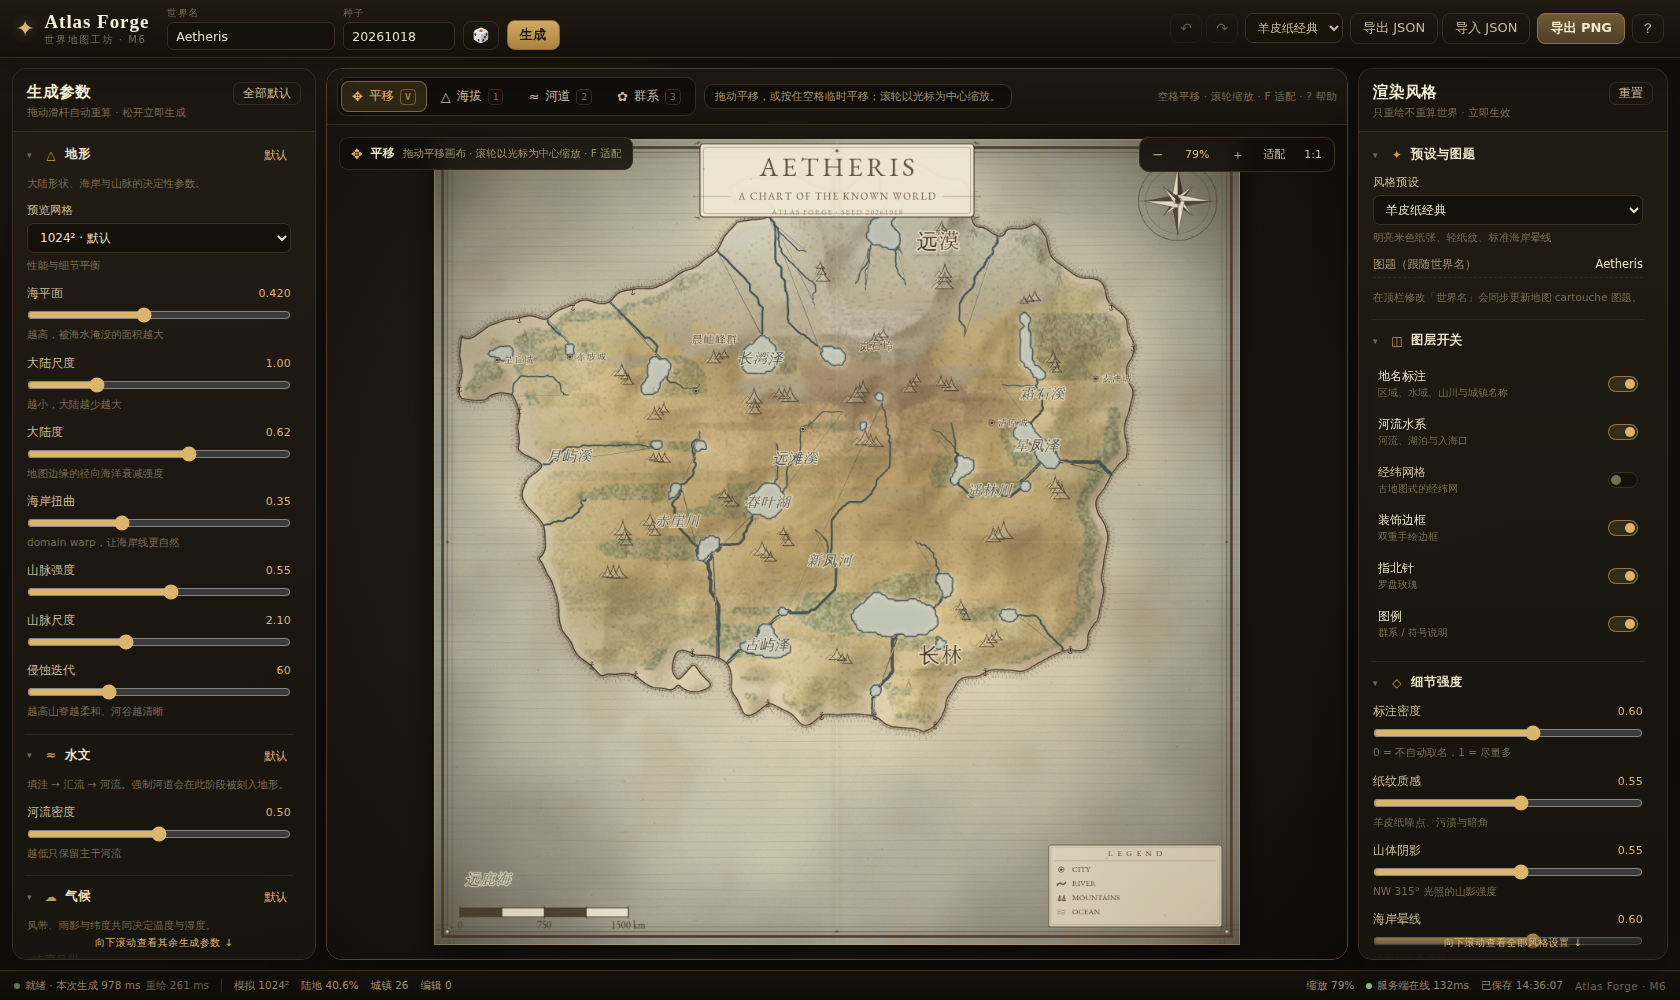
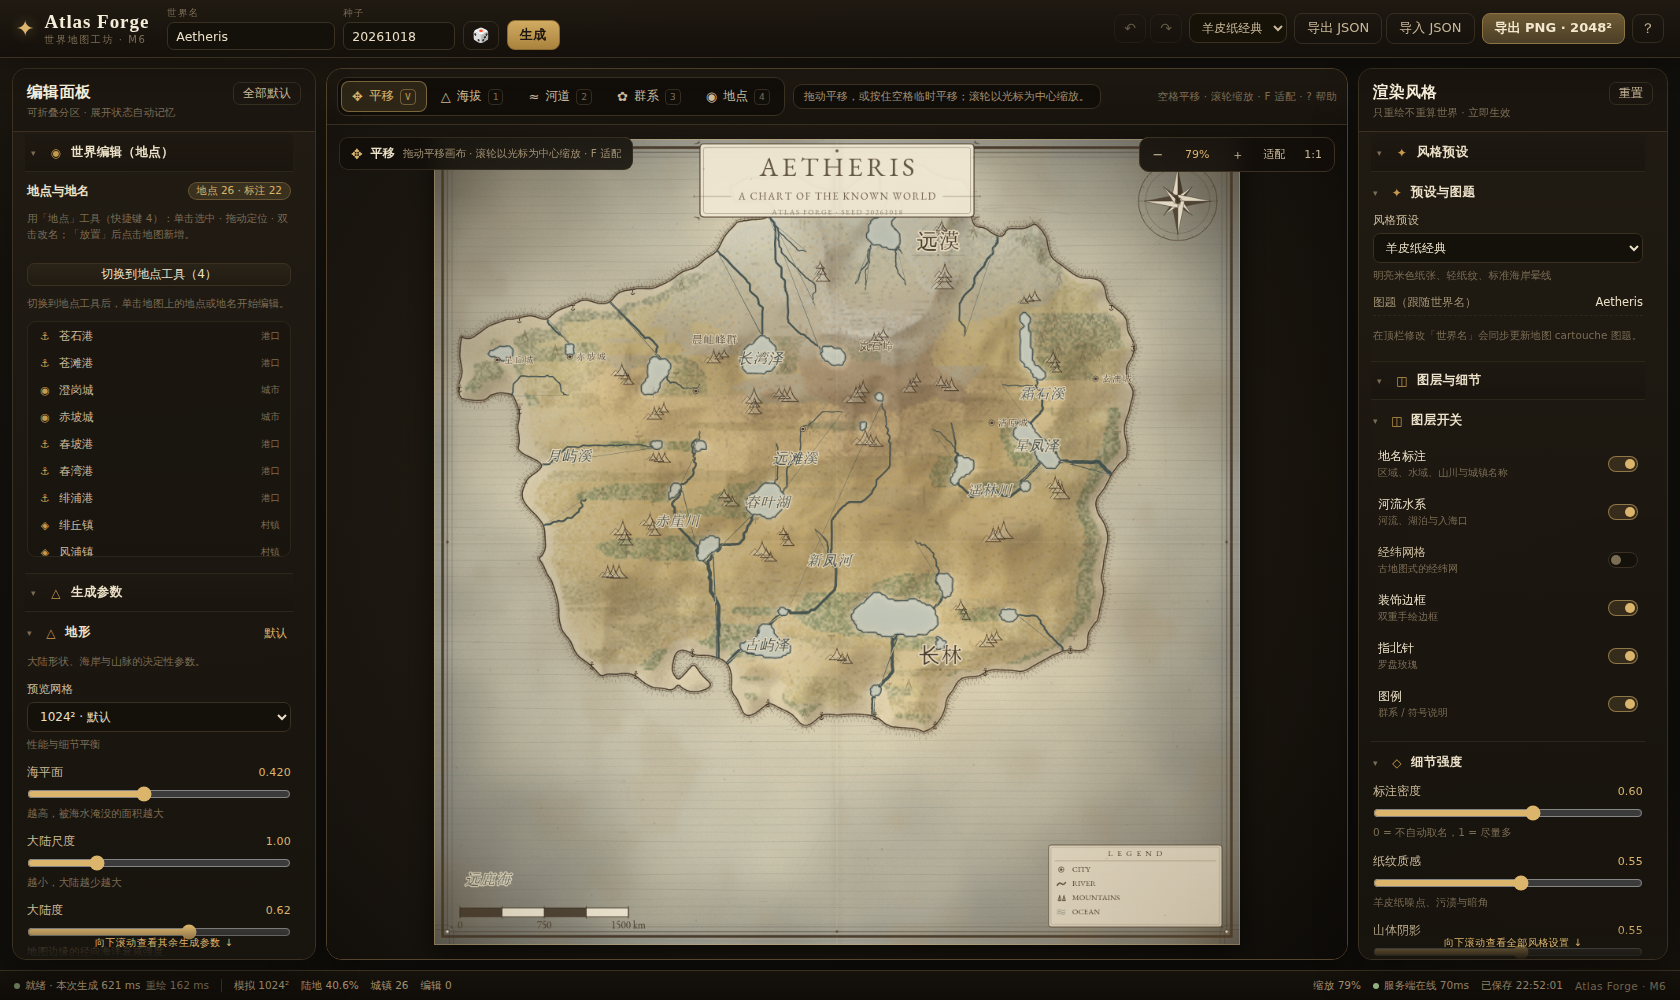
docs: v0.3.0 polish release notes, refreshed screenshots, shortcut table sync

diff --git a/README.md b/README.md
@@ -16,12 +16,15 @@
 - **羊皮纸渲染**：海拔色带 + 山体阴影 + biome 色带 + 手绘海岸线/晕线 + 河流渐细 + 纸纹做旧 + 双重边框 + 标题饰框 + 指北针 + 比例尺 + 图例 + 分级地名 + portolan 航向线。浏览器预览与 Node 大图导出**共用同一份渲染代码**。
 - **浏览器交互 + 后端大图**：1024² 交互预览（Worker 生成、120ms debounce、latest-wins），2048² 本地离屏导出，4096²/8192² 由 Node 服务渲染。
 - **世界 JSON 是唯一真源**：PNG 只是产物；导入/导出、自动保存、撤销/重做都围绕这份文档。
+- **为长期编辑打磨**：地点命中用**渲染器同源文字包围盒**（点标签尾部也能选中、重叠取最上层）；撤销按「一次用户动作」一条；导入先校验再替换、坏 JSON 不半加载；自动存档主/备双槽，损坏时可恢复；导出显示尺寸/文件名/进度并可取消。
 
 | 经典羊皮纸 | Aged Ink |
 | --- | --- |
 | ![经典羊皮纸](examples/aetheris-classic-1024.png) | ![Aged Ink](examples/aetheris-aged-ink-1024.png) |
 
 ![地点与地名编辑](examples/place-editing.png)
+
+![同源文字包围盒命中](examples/hit-testing.png)
 
 ## 快速开始
 
@@ -40,10 +43,12 @@ pnpm dev            # web: http://localhost:5173  api: http://127.0.0.1:8787
 - **画布**：滚轮以光标为中心缩放，拖拽或按住空格平移，`适配` / `1:1` 复位；右上角缩放控件。
 - **编辑**：工具栏切 海拔 / 河道 / 群系。海拔有抬升、压低、锁定三种模式（半径、强度可调）；河道点击落点、回车或双击提交，可调宽度；撤销 Ctrl+Z，重做 Ctrl+Shift+Z / Ctrl+Y。
 - **地点/地名**：切到「地点」工具（快捷键 4）后，悬停高亮、单击选中；双击改名、拖动定位；左侧检查器可「定位 / 重命名 / 隐藏 / 删除」，隐藏条目在「隐藏与恢复」中可找回；工具条可切换「地点/标注」并在地图点击放置新条目。
-- **导出**：`导出 JSON` 下载唯一真源；`导出 PNG` 选择 1024/2048（本地）或 4096/8192（服务端，8192 自动显式 opt-in），服务不可用时可降级本地导出。
+- **导出**：`导出 JSON` 下载唯一真源；`导出 PNG` 按钮显示当前尺寸，弹窗预览文件名 `atlas-<world>-<seed>-<preset>-<size>.png` 与各阶段进度，可随时取消；4096/8192 走服务端（8192 显式 opt-in），服务离线时可降级本地 2048。
+- **导入/自动保存**：导入先经 core 校验/规范化，坏 JSON 给可读错误且不替换当前世界；自动保存在主/备双槽，损坏存档会弹出恢复面板（恢复上一份 / 清空），不会静默覆盖。
+- **面板**：左右栏为可折叠分组（世界编辑 / 生成参数 / 画笔编辑；风格预设 / 图层与细节 / 统计与图例），标题吸顶，展开状态记住；1280×800 与 1024×768 下不横向溢出（桌面优先，未承诺触控拖动/双击）。
 - **帮助**：右上角 `?` 查看完整快捷键与编辑说明。
 
-快捷键：`1/2/3` 海拔/河道/群系 · `4` 地点/标注 · `V` 平移 · `Space` 临时平移 · `+/-` 缩放 · `F` 适配 · `0` 1:1 · `Ctrl+Enter` 立即重算 · `Enter` 完成河道 · `Backspace` 删河道末点 · `Esc` 取消/关弹窗 · `?` 帮助。
+快捷键（单一来源 `apps/web/src/lib/shortcuts.ts`，帮助面板与实际行为同源）：`Ctrl/⌘+Z` 撤销 · `Ctrl/⌘+Shift+Z` 重做 · `Ctrl/⌘+Enter` 立即重算 · `1/2/3/4` 海拔/河道/群系/地点 · `V` 平移 · `Space`（按住）临时平移 · 滚轮缩放 · `+/-` 缩放 · `F` 适配 · `0` 1:1 · `Enter/双击` 完成河道 · `Backspace` 删河道末点 · 双击地点改名 · 拖动地点定位 · `Delete` 删除用户新增地点 · `Esc` 按 弹窗→重命名→放置→选中→河道 取消 · `?` 帮助。
 
 ## 架构
 
@@ -75,22 +80,27 @@ atlas_forge/
 
 ```bash
 pnpm typecheck        # 5 个 workspace 包
-pnpm test             # core 50 tests / render 14 组断言
+pnpm test             # core 61 tests / render 21 行断言（含命中度量）
 pnpm qa:render        # Node 出 3×1024 + aged-ink + 4096 QA 图到 out/
-pnpm qa:browser       # Playwright E2E：生成/调参/画笔/撤销/导出/自动恢复，截图到 out/e2e/
+pnpm qa:browser       # Playwright E2E：生成/调参/画笔/地点编辑/命中/导入失败/存档恢复/导出，截图到 out/e2e/
+node apps/web/scripts/qa-ui.mjs   # 141 项 UI 交互断言（需 dev server）
 ```
 
 实测（本机，2026-10）：
 
-- core 1024² 冷启 0.55–0.85s；同文档二次生成（缓存命中）15–25ms；只改下游参数 ~200–280ms
-- 渲染 1024 preview 热路径 100–140ms；4096 导出端到端 5–8s（22–25MB PNG）
-- 浏览器 E2E：0 console/page error、0 failed request；生成、参数、笔画、强制河道、撤销、地点放置/改名/拖动/隐藏恢复、JSON 导出、本地/服务端 PNG、自动保存恢复全部通过
+- core 1024² 冷启 0.35–0.85s（管线 best 441ms）；同文档二次生成（缓存命中）15–25ms；只改下游参数 ~200–280ms
+- 渲染 1024 preview 热路径 ~75–165ms；4096 导出端到端 3.7–8s（22–25MB PNG）；命中度量 ~0.7ms@1024
+- 浏览器 E2E：0 console/page error、0 failed request。覆盖生成/调参/笔画/河道/撤销；地点放置/改名/撤销/拖动/隐藏恢复/新增标注；标签尾部点击（同源 bbox）、重叠 topmost、hover 不重算、重命名输入框内 Delete 守卫；坏 JSON 导入被拒且文档不变；自动存档损坏→恢复面板→恢复成功；导出文件名/进度/本地 PNG；折叠状态跨刷新记忆；1280/1024 宽度无溢出
+- UI 交互断言：`qa-ui.mjs` 141/141 通过（含撤销一致性、快捷键单一来源、a11y、窄屏、toast 去重、预算 sanity）
 - 水文不变量：30 seeds × 192² 河格下游不升高、无断头/倒流、必到海/湖
 
 ## 已知限制
 
-- 地点命中测试以条目锚点 16px 屏幕距离为准（长标签文字横向范围未覆盖，密集区取最近、地点优先于标注）。
-- 新增地点的自动命名使用随机音节（落盘后确定，不保证同会话全局不重名）。
+- 命中已改为渲染器同源文字包围盒；渲染器不可用时自动回退 marker 距离（debug `hitBoxesSource` 可观测），极端密集重叠仍按 drawOrder 取最上层。
+- 自动命名使用随机音节（落盘后确定），重名会自动加稳定后缀；不追求全局唯一语义。
+- 本地自动保存仅保留「当前 + 上一份备份」两个槽位；恢复会先清理损坏主档再写回。
+- 取消服务端导出会产生一次浏览器 `net::ERR_ABORTED`（预期行为）。
+- 桌面优先：窄屏（≥1024）保证不溢出、按钮可点，但未承诺触控拖动/双击改名。
 - 8192² 为显式 opt-in + 内存预检，未在低内存机器上压测。
 - 浏览器仅实测 Chromium；本地 PNG 导出依赖 OffscreenCanvas（不支持时回退主线程）。
 - 预览画布为 1024 离屏渲染后缩放，极端放大略软；导出大图清晰。

diff --git a/TODO.md b/TODO.md
@@ -201,3 +201,20 @@ pnpm build
 - GitHub：public 仓库 `Umamed26/atlas-forge`，main 分支，CI（typecheck + tests + build）通过
 
 **已知限制**：命中测试基于条目锚点 16px（长标签文字范围未覆盖，密集区取最近）；自动命名随机但落盘后确定；生成条目只能隐藏、用户新增条目可彻底删除。
+
+## 14. v0.3.0 全量打磨（2026-10-18）
+
+**范围**：不新增功能面，按真实用户路径打磨全部现有功能。
+
+| 项 | 结果 | 证据 |
+| --- | --- | --- |
+| 同源命中 | ✅ renderer `measureMapContent` 与绘制同源（bbox + drawOrder），长标签尾部可选中、重叠取最上层，~0.7ms@1024 | render 21 行断言（含一致性/性能）；Lead E2E 标签尾部点击 id 精确匹配；ui-qa 06e 截图 |
+| 撤销/重做一致 | ✅ 一次动作一条历史；选区/hover/自动保存/导出 0 条；跨功能撤销链 | qa-ui 141 断言；ui-dev 报告 |
+| 键盘/焦点/单一来源 | ✅ 17 条快捷键单源（帮助=行为）；输入框内 Delete 守卫；Esc 五级；焦点回画布 | Lead E2E `shortcuts debug=17 helpRows=17`、`rename guard unchanged=true` |
+| 导入/自动存档失败路径 | ✅ core 校验/规范化；坏 JSON 拒绝且文档不变；主/备双槽 + 损坏恢复面板 | Lead E2E `docUnchanged=true`、`recovery panel=1/recoveredSeed=20261018`；core 61 tests |
+| 导出可预期 | ✅ 尺寸/文件名/禁用原因/分阶段进度/取消/释放 canvas/服务端 abort 内存不累积 | Lead E2E 文件名 `atlas-Aetheris-20261018-parchment-1024.png`；server 连续 4096 rss 544→528MB |
+| 布局/窄屏 | ✅ 可折叠分组 + sticky + 记忆；1280×800、1024×768 无溢出 | Lead E2E `persisted=true`、`overflow={h:0,v:0}`；截图 12-narrow-* |
+| 命名/性能/a11y | ✅ 命名纯函数+RNG+去重后缀；hitTest ~0.1ms、hover 零重算；aria/focus/reduced-motion | Lead E2E hover seq 不变；qa-ui a11y/预算断言 |
+| 发布 | v0.3.0：main 提交 + tag + GitHub Release + CI 绿 | 见 GitHub Actions |
+
+**已知限制**：桌面优先（≥1024 不溢出，未承诺触控拖动/双击）；自动存档仅当前+上一份备份；取消服务端导出会产生一次预期中的 `ERR_ABORTED`。

diff --git a/CHANGELOG.md b/CHANGELOG.md
@@ -1,5 +1,17 @@
 # Changelog
 
+## v0.3.0 — 2026-10-18
+
+### Added / Improved
+- **同源命中**：renderer 新增 `measureMapContent`（layout 与绘制共用同一套字体/避让），Web 命中改为文字包围盒 + drawOrder topmost；长标签尾部可点选，悬停/选中高亮同步为 bbox 描边；命中 ~0.7ms@1024。
+- **撤销一致性**：一次用户动作一条历史（改名仅 Enter/失焦提交、拖动仅 pointerup、隐藏/恢复各一条），选区/悬停/自动保存/导出不进历史；跨功能撤销链可回溯。
+- **键盘与焦点**：单一快捷键表（17 条）驱动帮助与实际行为；重命名输入框内 Delete/Backspace 安全；Esc 五级优先级；提交/取消焦点回画布；a11y（aria-label/focus-visible/aria-live/reduced-motion）。
+- **导入/自动存档健壮性**：core 新增 `normalizeWorldDocument`/`parseWorldDocumentJson`；坏 JSON 拒绝且不半加载；自动保存主/备双槽 + 损坏恢复面板；quota 失败提示并可立即导出备份。
+- **导出可预期**：按钮显示当前尺寸；文件名 `atlas-<world>-<seed>-<preset>-<size>.png`；分阶段进度与取消（AbortController）；完成后释放 canvas/worker；服务端 abort 跳过编码并释放内存。
+- **布局**：左右面板改为可折叠分组、sticky 标题、展开状态记忆；1280×800 / 1024×768 无溢出。
+- **命名**：自动命名纯函数 + 注入 RNG + 重名稳定后缀。
+- **工程**：CI 增加 `qa:render` 冒烟；E2E 浏览器解析可移植；节点渲染器 v1.1.0（视觉零变化，像素级回归验证）。
+
 ## v0.2.0 — 2026-10-18
 
 ### Added
